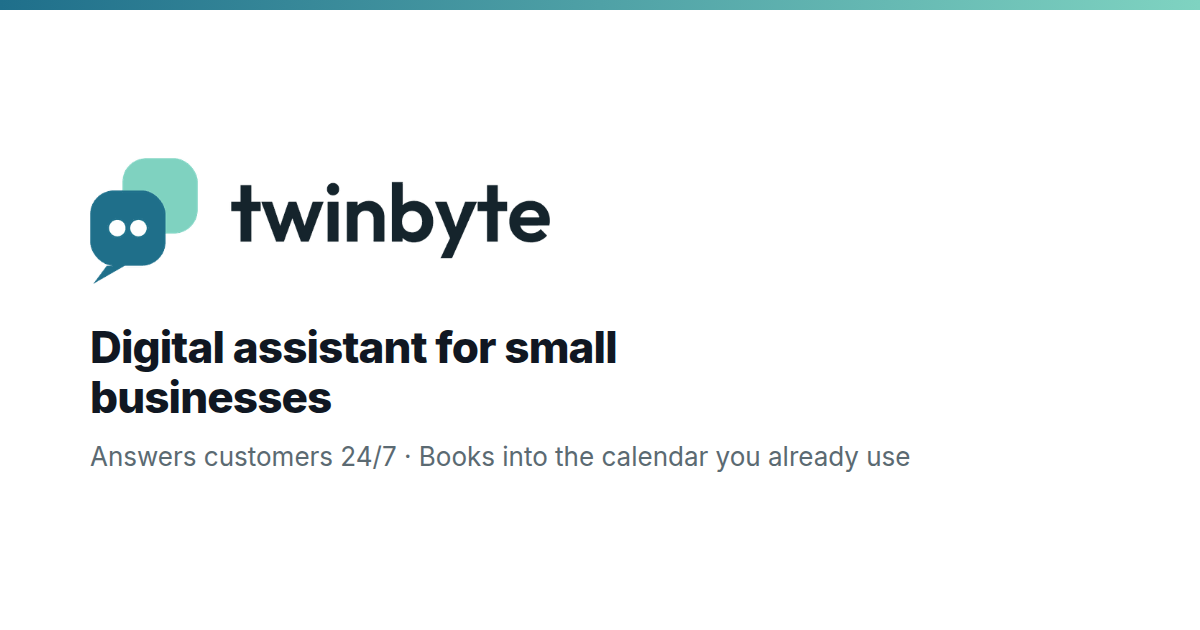
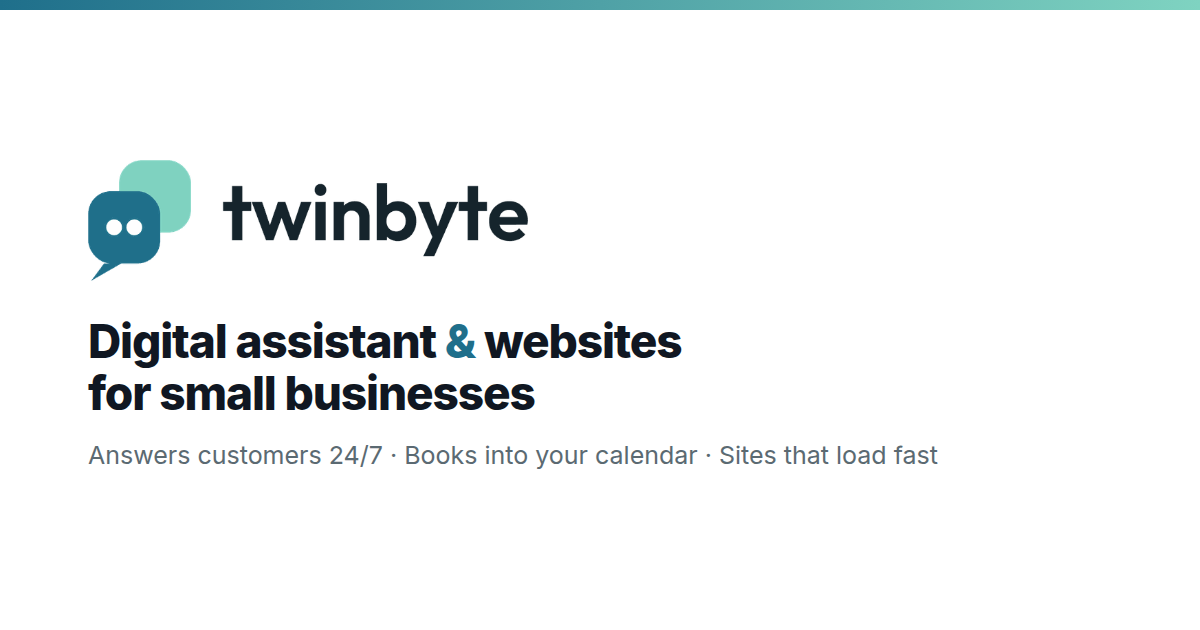
Name both services in the link preview
Shared on WhatsApp, the card said "digital assistant" and nothing about the
websites we also sell. Titles, descriptions and the OG image now carry both, in
all three languages.

Claude-Session: https://claude.ai/code/session_01XFUa3ba9gDkRcXa2iqpBVL

diff --git a/index.html b/index.html
@@ -7,13 +7,13 @@
     <link rel="icon" type="image/png" sizes="32x32" href="/icon-32.png" />
     <link rel="apple-touch-icon" sizes="180x180" href="/icon-180.png" />
     <link rel="preload" as="image" href="/logo-white.png" />
-    <title>Twinbyte — Digital assistant for small businesses</title>
-    <meta name="description" content="A digital assistant on your website that answers customers 24/7 and books appointments into the calendar you already use. 14 days free, no commitment." />
+    <title>Twinbyte — Digital assistant & websites for small businesses</title>
+    <meta name="description" content="A digital assistant that answers your customers 24/7 and books appointments into the calendar you already use — plus fast websites for small businesses. 14 days free, no commitment." />
     <meta property="og:type" content="website" />
     <meta property="og:site_name" content="Twinbyte" />
     <meta property="og:locale" content="en" />
-    <meta property="og:title" content="Twinbyte — Digital assistant for small businesses" />
-    <meta property="og:description" content="A digital assistant on your website that answers customers 24/7 and books appointments into the calendar you already use. 14 days free, no commitment." />
+    <meta property="og:title" content="Twinbyte — Digital assistant & websites for small businesses" />
+    <meta property="og:description" content="A digital assistant that answers your customers 24/7 and books appointments into the calendar you already use — plus fast websites for small businesses. 14 days free, no commitment." />
     <meta property="og:url" content="https://twinbyte.online/" />
     <meta property="og:image" content="https://twinbyte.online/og.png" />
     <meta name="twitter:card" content="summary_large_image" />
